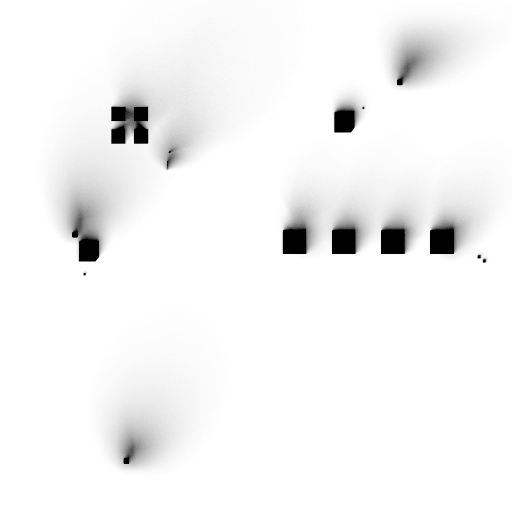
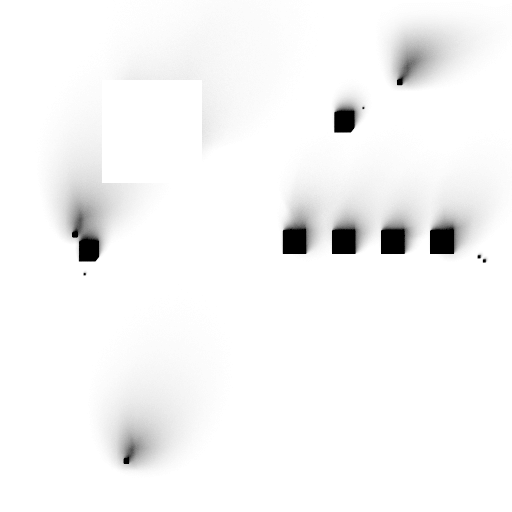
remove boyHiArm picture

Changed region(s): [[0.2188, 0.1562, 0.4062, 0.3438], [0.1875, 0.3125, 0.25, 0.375]]

diff --git a/src/javascript/ThreejsJourney.js b/src/javascript/ThreejsJourney.js
@@ -10,11 +10,11 @@ export default class ThreejsJourney
         this.world = _options.world
         // Setup
         this.$container = document.querySelector('.js-threejs-journey')
-        this.$messages = [...this.$container.querySelectorAll('.js-message')]
-        this.$yes = this.$container.querySelector('.js-yes')
-        this.$no = this.$container.querySelector('.js-no')
+        //this.$messages = [...this.$container.querySelectorAll('.js-message')]
+        //this.$yes = this.$container.querySelector('.js-yes')
+        //this.$no = this.$container.querySelector('.js-no')
         this.step = 0
-        this.maxStep = this.$messages.length - 1
+        //this.maxStep = this.$messages.length - 1
         this.seenCount = window.localStorage.getItem('threejsJourneySeenCount') || 0
         this.seenCount = parseInt(this.seenCount)
         this.shown = false
@@ -28,7 +28,7 @@ export default class ThreejsJourney
         if(this.prevent)
             return
 
-        this.setYesNo()
+        //this.setYesNo()
         //this.setLog()
 
         this.time.on('tick', () =>
@@ -45,57 +45,57 @@ export default class ThreejsJourney
         })
     }
 
-    setYesNo()
-    {
-        // Clicks
-        this.$yes.addEventListener('click', () =>
-        {
-            TweenLite.delayedCall(2, () =>
-            {
-                this.hide()
-            })
-            window.localStorage.setItem('threejsJourneyPrevent', 1)
-        })
+    //setYesNo()
+    //{
+    //    // Clicks
+    //    this.$yes.addEventListener('click', () =>
+    //    {
+    //        TweenLite.delayedCall(2, () =>
+    //        {
+    //            this.hide()
+    //        })
+    //        window.localStorage.setItem('threejsJourneyPrevent', 1)
+    //    })
 
-        this.$no.addEventListener('click', () =>
-        {
-            this.next()
+    //    this.$no.addEventListener('click', () =>
+    //    {
+    //        this.next()
 
-            TweenLite.delayedCall(5, () =>
-            {
-                this.hide()
-            })
-        })
+    //        TweenLite.delayedCall(5, () =>
+    //        {
+    //            this.hide()
+    //        })
+    //    })
 
-        // Hovers
-        this.$yes.addEventListener('mouseenter', () =>
-        {
-            this.$container.classList.remove('is-hover-none')
-            this.$container.classList.remove('is-hover-no')
-            this.$container.classList.add('is-hover-yes')
-        })
+    //    // Hovers
+    //    this.$yes.addEventListener('mouseenter', () =>
+    //    {
+    //        this.$container.classList.remove('is-hover-none')
+    //        this.$container.classList.remove('is-hover-no')
+    //        this.$container.classList.add('is-hover-yes')
+    //    })
 
-        this.$no.addEventListener('mouseenter', () =>
-        {
-            this.$container.classList.remove('is-hover-none')
-            this.$container.classList.add('is-hover-no')
-            this.$container.classList.remove('is-hover-yes')
-        })
+    //    this.$no.addEventListener('mouseenter', () =>
+    //    {
+    //        this.$container.classList.remove('is-hover-none')
+    //        this.$container.classList.add('is-hover-no')
+    //        this.$container.classList.remove('is-hover-yes')
+    //    })
 
-        this.$yes.addEventListener('mouseleave', () =>
-        {
-            this.$container.classList.add('is-hover-none')
-            this.$container.classList.remove('is-hover-no')
-            this.$container.classList.remove('is-hover-yes')
-        })
+    //    this.$yes.addEventListener('mouseleave', () =>
+    //    {
+    //        this.$container.classList.add('is-hover-none')
+    //        this.$container.classList.remove('is-hover-no')
+    //        this.$container.classList.remove('is-hover-yes')
+    //    })
 
-        this.$no.addEventListener('mouseleave', () =>
-        {
-            this.$container.classList.add('is-hover-none')
-            this.$container.classList.remove('is-hover-no')
-            this.$container.classList.remove('is-hover-yes')
-        })
-    }
+    //    this.$no.addEventListener('mouseleave', () =>
+    //    {
+    //        this.$container.classList.add('is-hover-none')
+    //        this.$container.classList.remove('is-hover-no')
+    //        this.$container.classList.remove('is-hover-yes')
+    //    })
+    //}
 
 //    setLog()
 //    {
@@ -132,18 +132,18 @@ export default class ThreejsJourney
 //        console.log('%c— Bruno', 'color: #777777');
 //    }
 
-    hide()
-    {
-        for(const _$message of this.$messages)
-        {
-            _$message.classList.remove('is-visible')
-        }
+    //hide()
+    //{
+    //    for(const _$message of this.$messages)
+    //    {
+    //        _$message.classList.remove('is-visible')
+    //    }
 
-        TweenLite.delayedCall(0.5, () =>
-        {
-            this.$container.classList.remove('is-active')
-        })
-    }
+    //    TweenLite.delayedCall(0.5, () =>
+    //    {
+    //        this.$container.classList.remove('is-active')
+    //    })
+    //}
 
     start()
     {
@@ -168,51 +168,51 @@ export default class ThreejsJourney
         window.localStorage.setItem('threejsJourneySeenCount', this.seenCount + 1)
     }
 
-    updateMessages()
-    {
-        let i = 0
+    //updateMessages()
+    //{
+    //    let i = 0
 
-        // Visibility
-        for(const _$message of this.$messages)
-        {
-            if(i < this.step)
-                _$message.classList.add('is-visible')
+    //    // Visibility
+    //    for(const _$message of this.$messages)
+    //    {
+    //        if(i < this.step)
+    //            _$message.classList.add('is-visible')
 
-            i++
-        }
+    //        i++
+    //    }
 
-        // Position
-        this.$messages.reverse()
+    //    // Position
+    //    this.$messages.reverse()
 
-        let height = 0
-        i = this.maxStep
-        for(const _$message of this.$messages)
-        {
-            const messageHeight = _$message.offsetHeight
-            if(i < this.step)
-            {
-                _$message.style.transform = `translateY(${- height}px)`
-                height += messageHeight + 20
-            }
-            else
-            {
-                _$message.style.transform = `translateY(${messageHeight}px)`
-            }
+        //let height = 0
+        //i = this.maxStep
+        //for(const _$message of this.$messages)
+        //{
+        //    const messageHeight = _$message.offsetHeight
+        //    if(i < this.step)
+        //    {
+        //        _$message.style.transform = `translateY(${- height}px)`
+        //        height += messageHeight + 20
+        //    }
+        //    else
+        //    {
+        //        _$message.style.transform = `translateY(${messageHeight}px)`
+        //    }
 
-            i--
-        }
+        //    i--
+        //}
 
 
-        this.$messages.reverse()
-    }
+    //    this.$messages.reverse()
+    //}
 
-    next()
-    {
-        if(this.step > this.maxStep)
-            return
+    //next()
+    //{
+    //    if(this.step > this.maxStep)
+    //        return
 
-        this.step++
+    //    this.step++
 
-        this.updateMessages()
-    }
+    //    this.updateMessages()
+    //}
 }

diff --git a/src/style/main.css b/src/style/main.css
@@ -100,7 +100,7 @@ html
     transition: transform 0.15s ease-in;
 }
 
-.threejs-journey .boy .variant.is-yay
+/*.threejs-journey .boy .variant.is-yay
 {
     background: url('../images/boyYay.png');
 }
@@ -108,7 +108,7 @@ html
 .threejs-journey .boy .variant.is-shrugging
 {
     background: url('../images/boyShrugging.png');
-}
+}*/
 
 .threejs-journey.is-hover-yes .boy .variant.is-yay
 {
@@ -131,7 +131,7 @@ html
     transition-timing-function: ease-out;
 }
 
-.threejs-journey .boy .is-hi .body
+/*.threejs-journey .boy .is-hi .body
 {
     position: absolute;
     top: 0;
@@ -139,9 +139,9 @@ html
     width: 100%;
     height: 100%;
     background: url('../images/boyHiBody.png');
-}
+}*/
 
-.threejs-journey .boy .is-hi .arm
+/*.threejs-journey .boy .is-hi .arm
 {
     position: absolute;
     bottom: 0;
@@ -151,7 +151,7 @@ html
     background: url('../images/boyHiArm.png');
     animation: boyArmWave 3s infinite ease-in-out;
     transform-origin: 30% 90%;
-}
+}*/
 
 @keyframes boyArmWave
 {

diff --git a/src/favicon/style.css b/src/favicon/style.css
@@ -1,0 +1,18 @@
+.box{
+    width: 100%;
+    height: 100%;
+    text-align: center;
+    /*用line-height等于容器的高度实现容器内部垂直居中*/
+    line-height: 400px;
+    font-size: 400px;
+    /*将 box 绝对定位到屏幕中间，transform: translate(-50%, -50%) 为元素自身偏移*/
+    position: absolute;
+    left: 50%;
+    top: 50%;
+    transform: translate(-50%, -50%);
+    font-weight: bold;
+    /* 渐变文字颜色的关键*/
+    background-image: linear-gradient(135deg, rgb(255, 20, 20), rgb(0, 128, 255));
+    -webkit-background-clip: text;
+    color: transparent;
+}

diff --git a/src/favicon/index.html b/src/favicon/index.html
@@ -1,0 +1,11 @@
+<!DOCTYPE html>
+<html>
+    <head>
+        <link rel="stylesheet" href="./style.css">
+    </head>
+    <body>
+        <div class="box">
+            汪
+        </div>
+    </body>
+</html>
